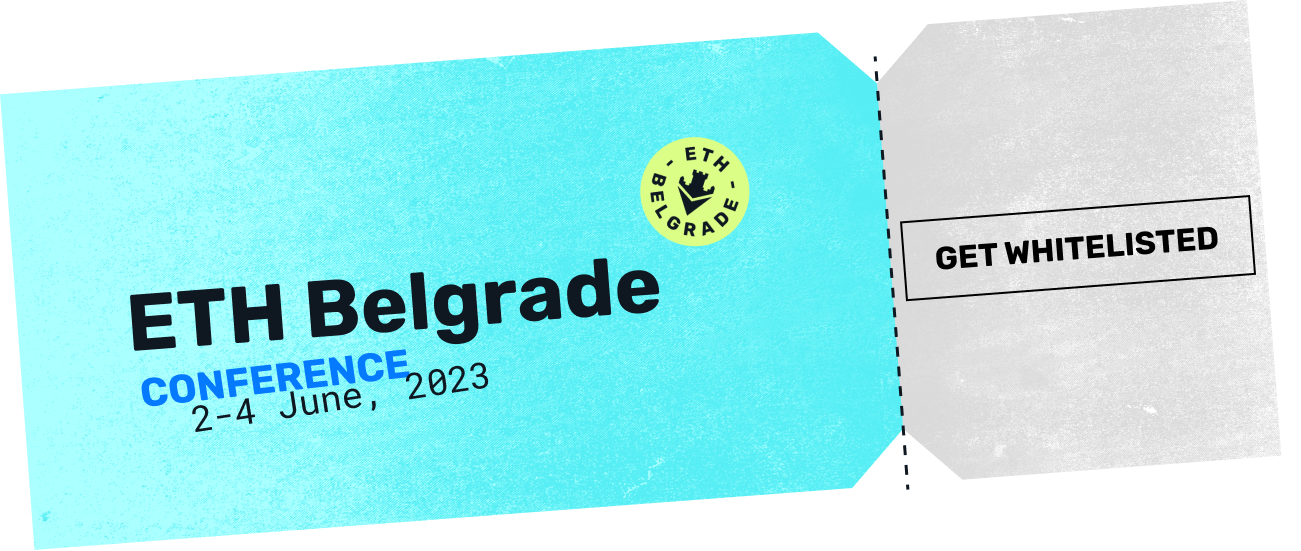
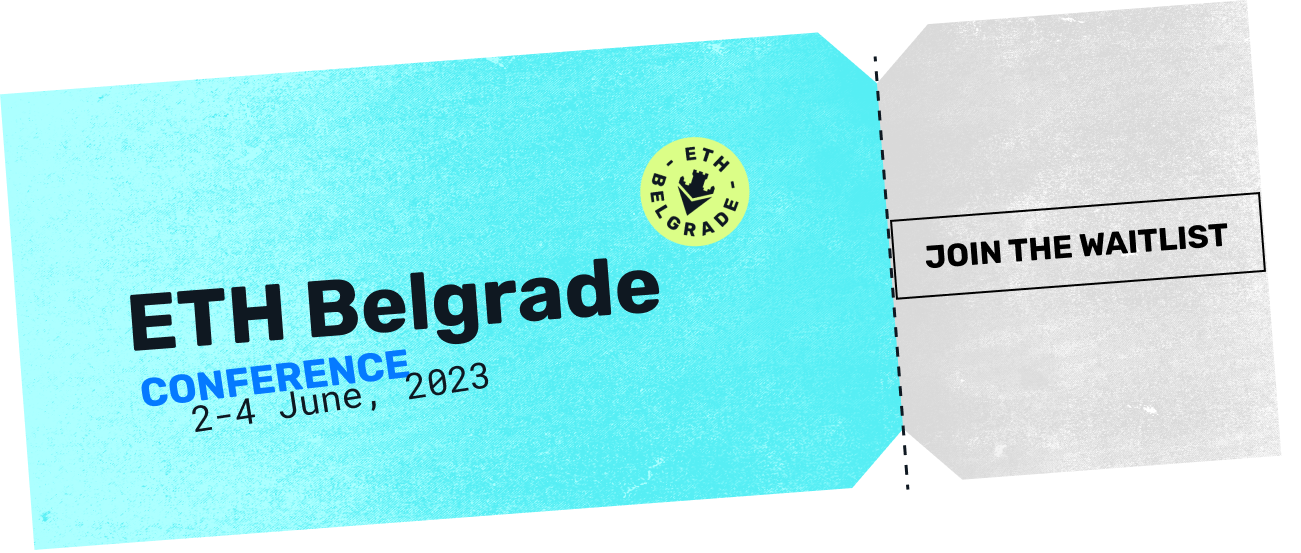
Fix ticket section

diff --git a/components/landing/ticket-cta/ticketCta.js b/components/landing/ticket-cta/ticketCta.js
@@ -9,7 +9,7 @@ const TicketCta = () => (
       </div>
       <a href="https://xntkpyvzukn.typeform.com/to/FvwgCUus" target="_blank" rel="noreferrer noopener">
         <img className={styles.ticket} src="/images/ticket.png" alt="Ticket illustration" />
-        <Button ghost className={styles.mobileSection}>Get Whitelisted</Button>
+        <Button ghost className={styles.mobileSection}>Join the waitlist</Button>
       </a>
     </div>
   </div>
